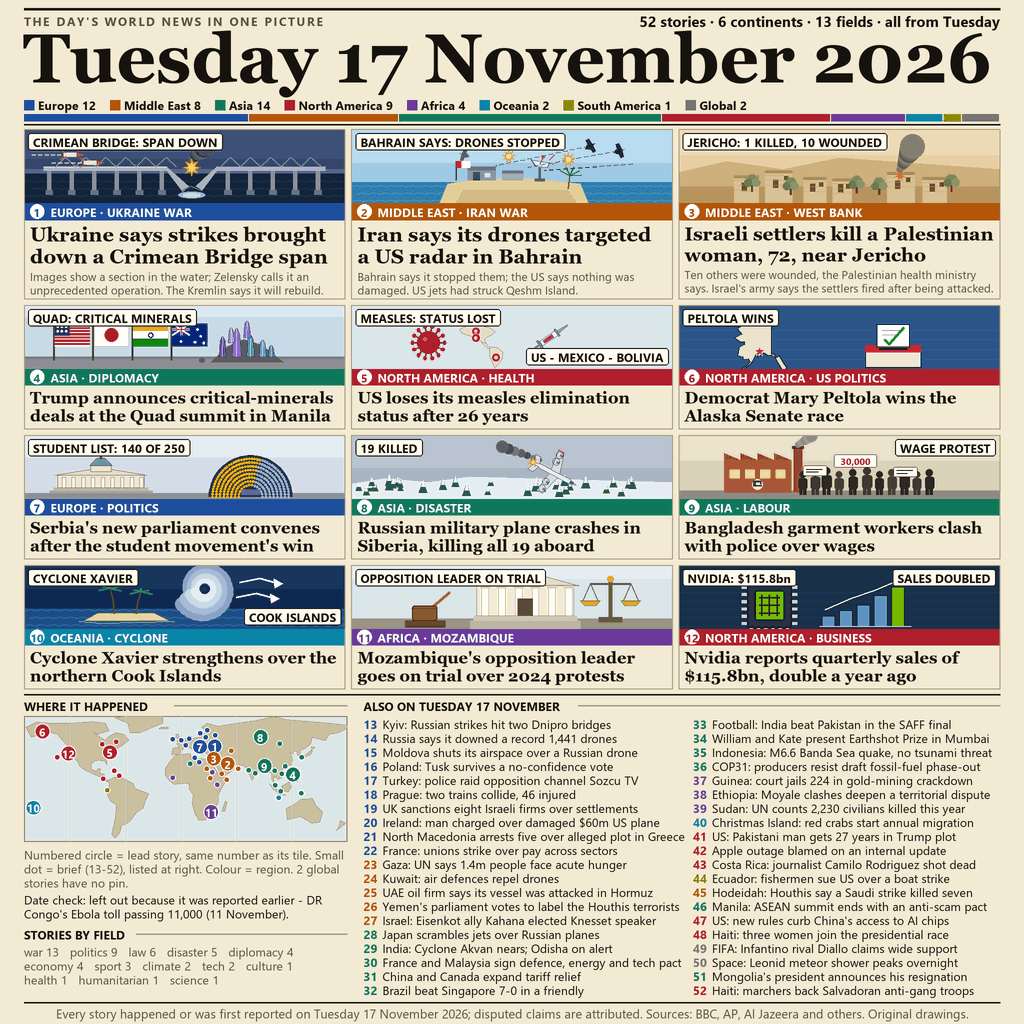
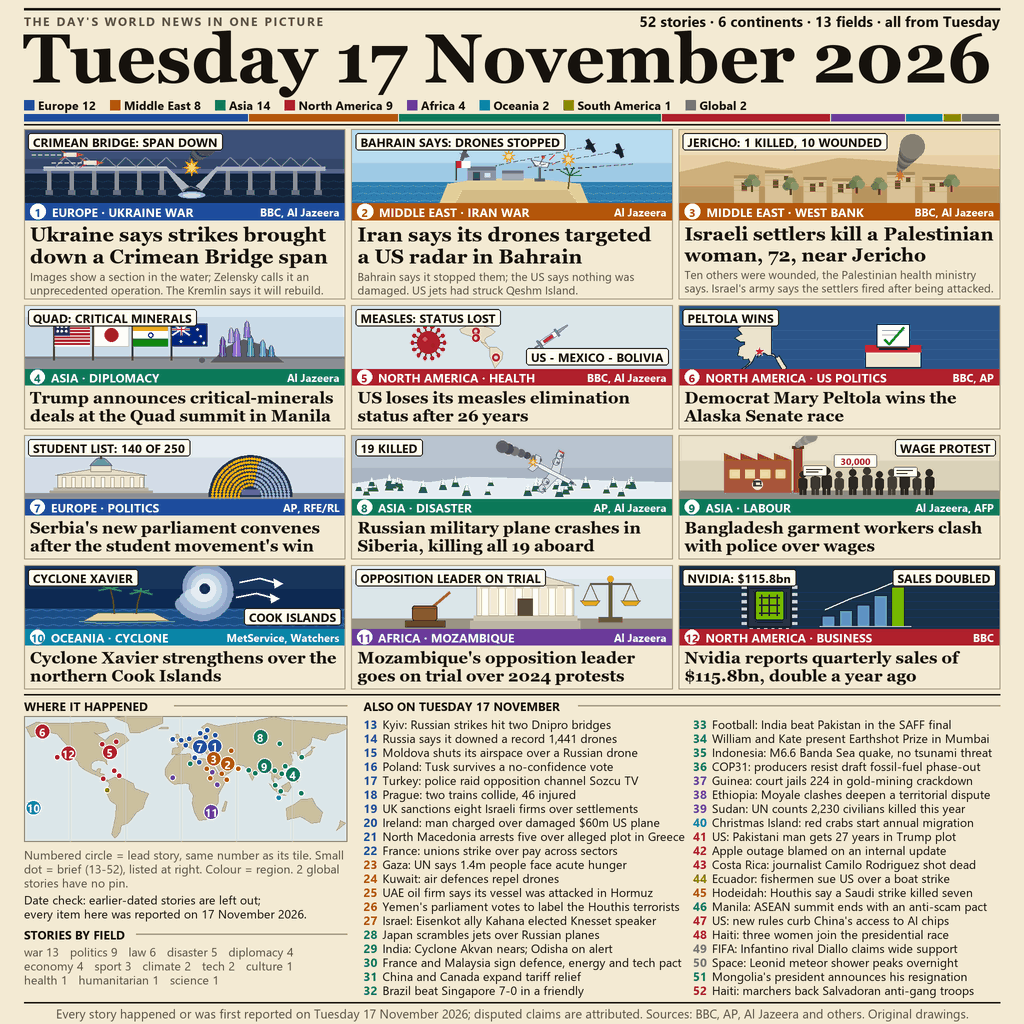
feat(image): drop the Ebola date-check, add a source tag to each lead strip

diff --git a/gen_news.py b/gen_news.py
@@ -857,13 +857,22 @@ def render():
         c.rect(x0, y0 + ph, x0 + tw_, y0 + ph + SH, reg)
         c.rect(x0, y0, x0 + tw_, y0 + th, None, "#a99d82", 0.8)
         # number badge + label strip
-        br = 7.2
+        br = SH / 2 - 0.6
         c.circ(x0 + 6 + br, y0 + ph + SH / 2, br, "#ffffff")
         put.fill = reg
         put(f"badge {st['id']}", str(st["id"]), "sb", 11.5, x0 + 6 + br, y0 + ph + SH / 2 + 0.5, "mm", tile)
         put.fill = "#ffffff"
         lab = f"{st['region'].upper()} · {st['beat']}"
-        put(f"label {st['id']}", lab, "sb", 12, x0 + 6 + 2 * br + 6, y0 + ph + SH / 2 + 0.5, "lm", tile)
+        lx0 = x0 + 6 + 2 * br + 6
+        lw = put(f"label {st['id']}", lab, "sb", 12, lx0, y0 + ph + SH / 2 + 0.5, "lm", tile)
+        # source tag, right-aligned in the strip; full src if it fits with >= 8 px gap, else first source
+        strip = (x0, y0 + ph, x0 + tw_, y0 + ph + SH)
+        tag_room = (x0 + tw_ - 6) - (lx0 + lw + 8)
+        tag = st["src"]
+        if tw("sb", 11, tag) > tag_room:
+            tag = tag.split(",")[0].strip()
+        assert tw("sb", 11, tag) <= tag_room, ("source tag does not fit strip", st["id"], tag, tag_room)
+        put(f"src tag {st['id']}", tag, "sb", 11, x0 + tw_ - 6, y0 + ph + SH / 2 + 0.5, "rm", strip)
         ty_ = y0 + ph + SH + 3
         # headline (whole, wrapped by words, never truncated)
         lh = hpx * 1.1
@@ -935,7 +944,7 @@ def render():
     for j, ln in enumerate(notes):
         put(f"map note {j}", ln, "s", 12, M, ky + j * 14, "la", (M, ky - 2, M + map_w + 2, ky + 14 * (j + 1) + 2))
     dpx = 12
-    dnote = wrap("Date check: left out because it was reported earlier - DR Congo's Ebola toll passing 11,000 (11 November).", "s", dpx, map_w)
+    dnote = ["Date check: earlier-dated stories are left out;", "every item here was reported on 17 November 2026."]
     dy0 = ky + 14 * len(notes) + 3
     put.fill = INK
     for j, ln in enumerate(dnote):
